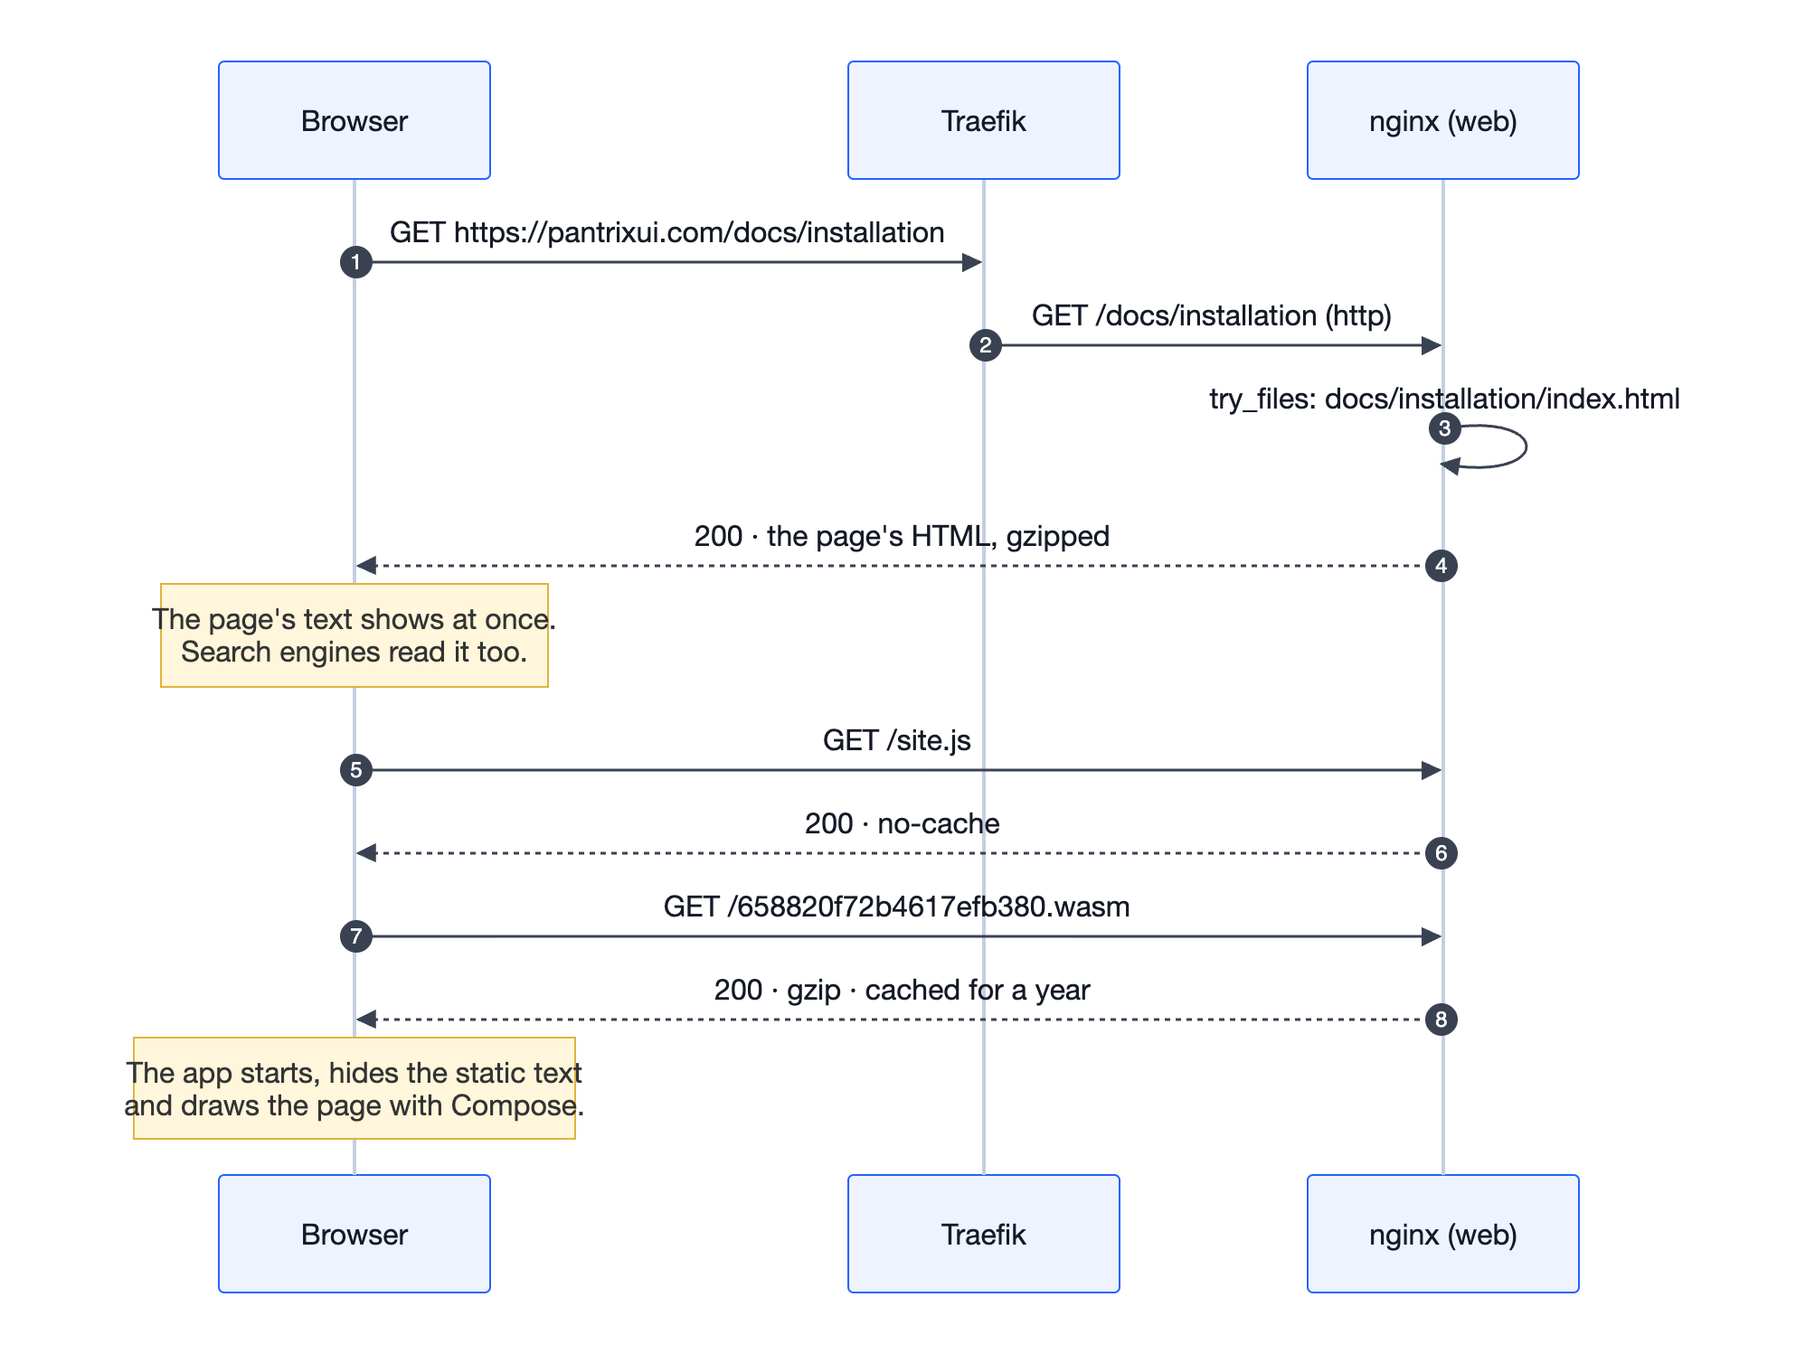
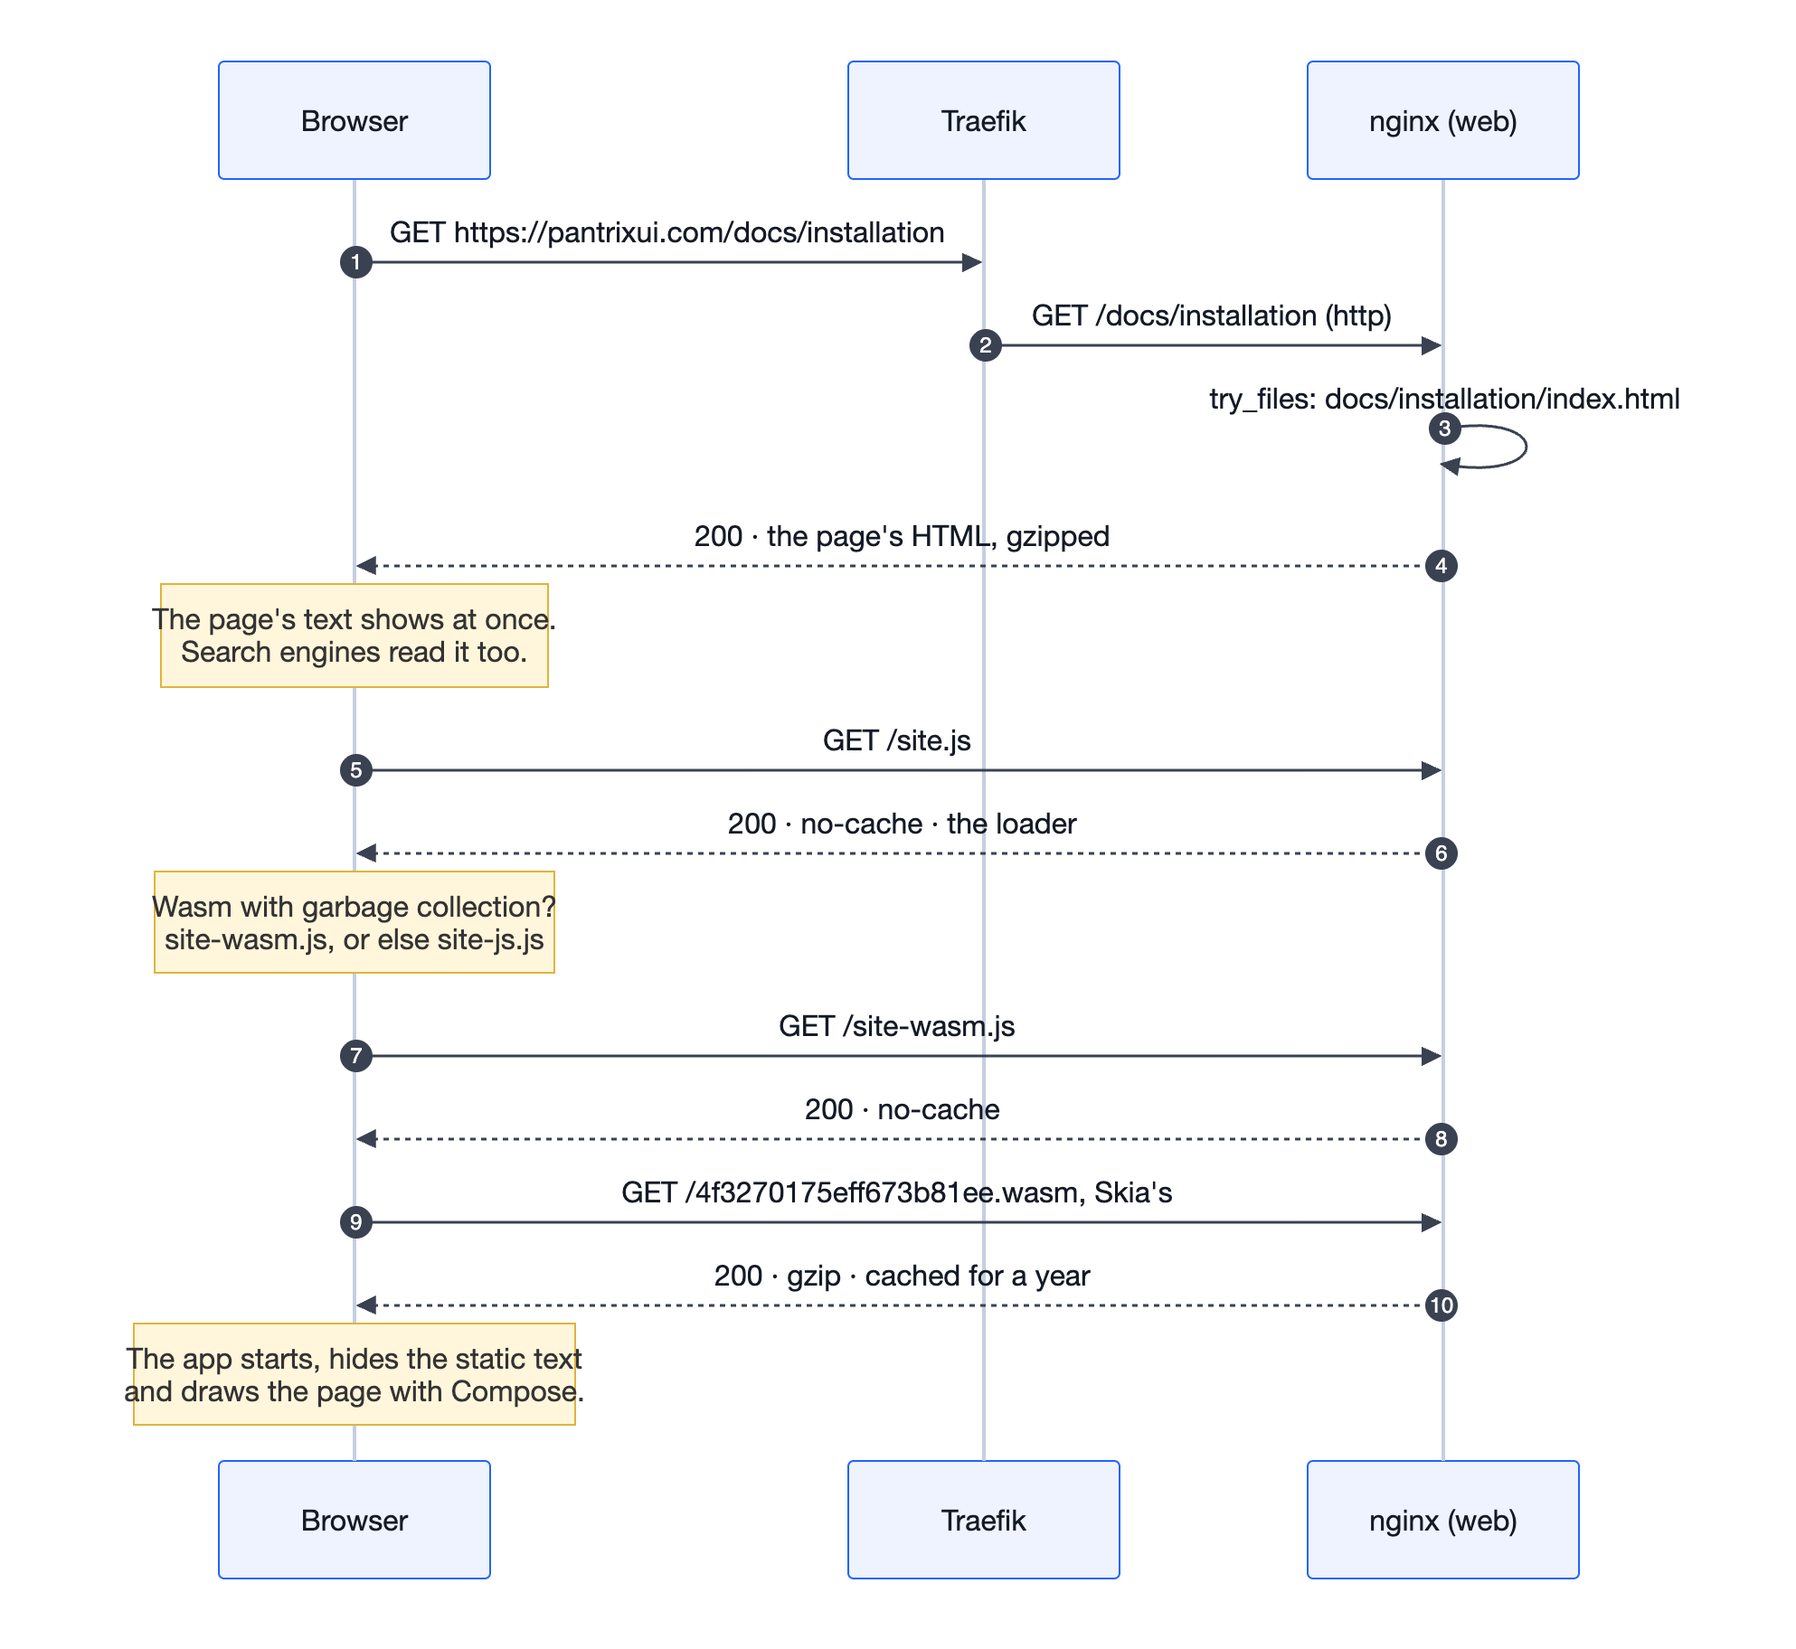
[FIX][Give a browser that cannot run the site's Wasm build the app built as JavaScript, Start the build from a loader that falls back on a Wasm failure and Check both builds in check.sh]

diff --git a/build-logic/src/main/kotlin/com/pantrixui/site/buildlogic/WebApplicationConventionPlugin.kt b/build-logic/src/main/kotlin/com/pantrixui/site/buildlogic/WebApplicationConventionPlugin.kt
@@ -26,11 +26,14 @@ import org.jetbrains.kotlin.gradle.ExperimentalWasmDsl
 import org.jetbrains.kotlin.gradle.dsl.KotlinMultiplatformExtension
 
 /**
- * The web app: the site's app in the browser, as Wasm. A browser without Wasm is given each page's static HTML, which
- * the build writes beside the app: after each of the two distributions, `:tools:prerender` writes every page's
- * `index.html` in the folder of its address, with the `404.html`, `sitemap.xml` and `robots.txt`. `:tools:render`
- * draws the app on the JVM for what the static pages cannot read from the content: the landing pages' words, and each
- * page's share image. Those two run only when what they read has changed.
+ * The web app: the site's app in the browser, as Wasm, and as JavaScript for a browser that cannot run the Wasm build.
+ * The JavaScript build is copied beside the Wasm one, and the page's own `site.js` chooses: the Wasm build where the
+ * browser has Wasm's garbage collection, the JavaScript one where it has not, or where the Wasm build fails before it
+ * has drawn. A browser that runs neither, or no script, is given each page's static HTML, which the build writes beside
+ * the app: after each of the two distributions, `:tools:prerender` writes every page's `index.html` in the folder of
+ * its address, with the `404.html`, `sitemap.xml` and `robots.txt`. `:tools:render` draws the app on the JVM for what
+ * the static pages cannot read from the content: the landing pages' words, and each page's share image. Those two run
+ * only when what they read has changed.
  */
 class WebApplicationConventionPlugin : Plugin<Project> {
     override fun apply(target: Project): Unit = with(target) {
@@ -40,11 +43,19 @@ class WebApplicationConventionPlugin : Plugin<Project> {
         pluginManager.apply(QualityConventionPlugin::class)
 
         extensions.configure<KotlinMultiplatformExtension> {
+            js {
+                browser {
+                    commonWebpackConfig {
+                        outputFileName = JS_BUNDLE
+                    }
+                }
+                binaries.executable()
+            }
             @OptIn(ExperimentalWasmDsl::class)
             wasmJs {
                 browser {
                     commonWebpackConfig {
-                        outputFileName = WEB_BUNDLE
+                        outputFileName = WASM_BUNDLE
                     }
                 }
                 binaries.executable()
@@ -89,7 +100,7 @@ class WebApplicationConventionPlugin : Plugin<Project> {
             manifest.set(shareManifest)
             outputDirectory.set(built.map { it.dir("share") })
         }
-        DISTRIBUTIONS.forEach { (distribution, folder) ->
+        DISTRIBUTIONS.forEach { (distribution, folder, jsDistribution) ->
             val name = "prerender" + distribution.replaceFirstChar { it.uppercase() }
             val prerender = tasks.register<PrerenderSite>(name) {
                 group = "site"
@@ -98,7 +109,7 @@ class WebApplicationConventionPlugin : Plugin<Project> {
                 mainClass.set(PRERENDER_MAIN)
                 dependsOn(":core:content:generateSiteContent")
                 contentDirectory.set(rootProject.layout.projectDirectory.dir(CONTENT))
-                template.set(layout.projectDirectory.file("src/wasmJsMain/resources/index.html"))
+                template.set(layout.projectDirectory.file("src/webMain/resources/index.html"))
                 site.set(siteUrl)
                 landingWords.set(landing.flatMap { it.wordsFile })
                 libraryDocuments.from(documents)
@@ -109,15 +120,35 @@ class WebApplicationConventionPlugin : Plugin<Project> {
                 from(share)
                 into(layout.buildDirectory.dir("dist/wasmJs/$folder"))
             }
+            // The JavaScript build beside the Wasm one: its script and the Wasm of Skiko it draws with. Its page, styles
+            // and resources are the Wasm build's own already. The JavaScript build is one the Wasm distribution depends
+            // on, not one this copy does: Gradle cannot run a finalizer that waits on tasks with finalizers of their own.
+            val copyJs = tasks.register<Copy>("copyJsApp${name.removePrefix("prerender")}") {
+                mustRunAfter(jsDistribution)
+                from(layout.buildDirectory.dir("dist/js/$folder")) {
+                    // Skiko's Wasm by the name of its hash, the one the script asks for; `skiko.wasm` it asks for only
+                    // where a page names its own place for it.
+                    include(JS_BUNDLE, "*.wasm")
+                    exclude("skiko.wasm")
+                }
+                into(layout.buildDirectory.dir("dist/wasmJs/$folder"))
+            }
             share.configure { mustRunAfter(prerender) }
             prerender.configure { finalizedBy(copyShare) }
-            tasks.matching { it.name == distribution }.configureEach { finalizedBy(prerender) }
+            copyJs.configure { mustRunAfter(prerender, copyShare) }
+            tasks.matching { it.name == distribution }.configureEach {
+                dependsOn(jsDistribution)
+                finalizedBy(prerender, copyJs)
+            }
         }
     }
 
     private companion object {
-        /** The script `index.html` loads. */
-        const val WEB_BUNDLE = "site.js"
+        /** The Wasm build's script, which `site.js`, the script `index.html` loads, starts where the browser runs it. */
+        const val WASM_BUNDLE = "site-wasm.js"
+
+        /** The JavaScript build's script, which `site.js` starts where the browser cannot run the Wasm build. */
+        const val JS_BUNDLE = "site-js.js"
 
         const val PRERENDER_MAIN = "com.pantrixui.site.tools.prerender.MainKt"
         const val LANDING_MAIN = "com.pantrixui.site.tools.render.LandingMainKt"
@@ -126,10 +157,17 @@ class WebApplicationConventionPlugin : Plugin<Project> {
         /** What `:core:content`'s content tool writes: the pages, the components and the changelog. */
         const val CONTENT = "core/content/build/generated/siteContent"
 
-        /** The web app's two distributions, each with the folder it is written to. */
+        /**
+         * The web app's two distributions: the Wasm build's, the folder each is written to, and the JavaScript build's
+         * that is copied into it.
+         */
         val DISTRIBUTIONS = listOf(
-            "wasmJsBrowserDistribution" to "productionExecutable",
-            "wasmJsBrowserDevelopmentExecutableDistribution" to "developmentExecutable"
+            Triple("wasmJsBrowserDistribution", "productionExecutable", "jsBrowserDistribution"),
+            Triple(
+                "wasmJsBrowserDevelopmentExecutableDistribution",
+                "developmentExecutable",
+                "jsBrowserDevelopmentExecutableDistribution"
+            )
         )
     }
 }

diff --git a/app/webApp/src/webMain/resources/site.js b/app/webApp/src/webMain/resources/site.js
@@ -1,0 +1,97 @@
+// Starts the site's app, in the build the browser can run.
+//
+// Where the browser runs Wasm with its garbage collection, the Wasm build (site-wasm.js). Where it does not, as
+// Chrome before 119 and Safari before 18.2, the JavaScript build (site-js.js), which needs only plain Wasm, for Skiko.
+// The Wasm build can fail where the test below passes: a phone's browser can run out of memory for its code, or refuse
+// a module. A failure of Wasm before the app has drawn its first frame starts the JavaScript build instead. Where that
+// fails too, or the browser has no Wasm at all, the page's static words are shown: index.html's `app` mark is taken
+// away, and its styles show the words the build wrote for the page.
+(function () {
+    "use strict";
+
+    // The module Compose's own loader tests a browser with (WebCompatibilityTask): a struct type and a `try`, so a
+    // browser that takes it has garbage collection and exception handling, both of which the Wasm build needs.
+    var FEATURES = new Uint8Array([
+        0, 97, 115, 109, 1, 0, 0, 0, 1, 8, 2, 95, 1, 120, 0, 96, 0, 0, 3, 3, 2, 1, 1, 10, 14, 2, 6, 0, 6, 64, 25, 11,
+        11, 5, 0, 208, 112, 26, 11, 0, 45, 4, 110, 97, 109, 101, 1, 15, 2, 0, 5, 102, 117, 110, 99, 48, 1, 5, 102, 117,
+        110, 99, 49, 4, 8, 1, 0, 5, 116, 121, 112, 101, 48, 10, 11, 1, 0, 1, 0, 6, 102, 105, 101, 108, 100, 48
+    ]);
+    var WASM = "site-wasm.js";
+    var JS = "site-js.js";
+
+    // The build that is starting: "wasm" or "js", and null once there is none left to try.
+    var starting = null;
+
+    // The app removes the loading mark once it has drawn its first frame (main.kt): a failure after that is the app's.
+    function drawn() {
+        return !document.getElementById("loading");
+    }
+
+    function load(src, onFailure) {
+        var script = document.createElement("script");
+        script.type = "application/javascript";
+        script.src = src;
+        script.onerror = onFailure;
+        document.body.appendChild(script);
+    }
+
+    function showStaticWords() {
+        starting = null;
+        document.documentElement.classList.remove("app");
+    }
+
+    function startJavaScript() {
+        starting = "js";
+        // What the Wasm build may have set in the app's box before it failed.
+        var box = document.getElementById("app");
+        while (box && box.firstChild) box.removeChild(box.firstChild);
+        load(JS, showStaticWords);
+    }
+
+    // A failure of the browser's Wasm, as opposed to one of the app: a module it cannot compile or link, a trap, or no
+    // memory left for it.
+    function wasmFailed(error) {
+        var wasm = typeof WebAssembly === "object";
+        return error instanceof RangeError || wasm && (error instanceof WebAssembly.CompileError ||
+            error instanceof WebAssembly.LinkError || error instanceof WebAssembly.RuntimeError);
+    }
+
+    // Whether the error's stack runs through the script: what the Wasm build still throws as it stops, after the
+    // JavaScript build has started, is the Wasm build's failure and not the JavaScript one's.
+    function thrownBy(error, script) {
+        return String(error && error.stack || "").indexOf(script) >= 0;
+    }
+
+    function failed(error) {
+        if (starting === null || drawn() || !wasmFailed(error)) return;
+        if (starting === "wasm") {
+            console.warn("Pantrix UI: the Wasm build failed before it was drawn, the JavaScript build starts.", error);
+            startJavaScript();
+        } else if (!thrownBy(error, WASM)) {
+            console.warn("Pantrix UI: the JavaScript build failed too, the page's words are shown.", error);
+            showStaticWords();
+        }
+    }
+
+    window.addEventListener("error", function (event) {
+        failed(event.error);
+    });
+    window.addEventListener("unhandledrejection", function (event) {
+        failed(event.reason);
+    });
+
+    var collected = false;
+    try {
+        collected = typeof WebAssembly === "object" && WebAssembly.validate(FEATURES);
+    } catch (unsupported) {
+        collected = false;
+    }
+    if (collected) {
+        starting = "wasm";
+        load(WASM, startJavaScript);
+    } else if (typeof WebAssembly === "object") {
+        startJavaScript();
+    } else {
+        showStaticWords();
+    }
+})();

diff --git a/app/webApp/src/webMain/resources/index.html b/app/webApp/src/webMain/resources/index.html
@@ -14,18 +14,11 @@
     <link rel="icon" href="favicon.ico" sizes="32x32">
     <link rel="icon" href="favicon.svg" type="image/svg+xml">
     <link rel="apple-touch-icon" href="apple-touch-icon.png">
-    <!-- A browser that can run the app, one with Wasm's garbage collection, is marked `app`: it hides the page's static
-         words, the #static box the build writes for each page, and draws the app. One that cannot keeps the words. -->
+    <!-- A browser that can run the app, one with Wasm, is marked `app`: it hides the page's static words, the #static
+         box the build writes for each page, and draws the app, in its Wasm build or its JavaScript one (site.js). One
+         that cannot, or runs no script, keeps the words. -->
     <script>
-        (function () {
-            var app = false;
-            try {
-                app = WebAssembly.validate(new Uint8Array([0, 97, 115, 109, 1, 0, 0, 0, 1, 3, 1, 95, 0]));
-            } catch (e) {
-                app = false;
-            }
-            if (app) document.documentElement.className = "app";
-        })();
+        if (typeof WebAssembly === "object") document.documentElement.className = "app";
     </script>
     <!-- The site's typefaces are fetched while its code is, so they are there when the app asks for them. The
          addresses are the ones Compose's resource reader asks for; without `crossorigin` the browser does not count
@@ -56,6 +49,7 @@
     </div>
     <!-- The box the app is set in. -->
     <div id="app"></div>
+    <!-- Starts the app in the build the browser can run: Wasm, or JavaScript where Wasm cannot run it. -->
     <script type="application/javascript" src="site.js"></script>
 </body>
 </html>

diff --git a/core/content/src/webMain/kotlin/com/pantrixui/site/core/content/FetchText.web.kt b/core/content/src/webMain/kotlin/com/pantrixui/site/core/content/FetchText.web.kt
@@ -1,0 +1,36 @@
+// The browser's own fetch, its promises awaited as Kotlin's.
+@file:OptIn(ExperimentalWasmJsInterop::class)
+
+package com.pantrixui.site.core.content
+
+import kotlinx.browser.window
+import kotlinx.coroutines.CancellationException
+import kotlinx.coroutines.await
+import org.w3c.fetch.RequestInit
+import org.w3c.fetch.Response
+import kotlin.js.ExperimentalWasmJsInterop
+import kotlin.js.JsException
+import kotlin.js.JsString
+
+/**
+ * The address's text by the browser's fetch: another site's must allow the page's address, as GitHub's API does.
+ *
+ * A rejected fetch is a [JsException], which in the JavaScript build is any [Throwable]: a cancelled wait goes on up
+ * before it, so the coroutine that asked stops as it should.
+ */
+internal actual suspend fun fetchText(url: String): String? = try {
+    // The request's options given, as JavaScript's declaration of fetch has no default for them.
+    val response = window.fetch(url, RequestInit()).await<Response>()
+    if (response.ok) {
+        // A JavaScript string in the Wasm build, which is Kotlin's own in the JavaScript build.
+        @Suppress("REDUNDANT_CALL_OF_CONVERSION_METHOD")
+        response.text().await<JsString>().toString()
+    } else {
+        null
+    }
+} catch (cancelled: CancellationException) {
+    throw cancelled
+} catch (@Suppress("SwallowedException") failure: JsException) {
+    // No network, or an address that does not allow the page's: the browser rejects the fetch.
+    null
+}

diff --git a/build-logic/src/main/kotlin/com/pantrixui/site/buildlogic/KmpLibraryConventionPlugin.kt b/build-logic/src/main/kotlin/com/pantrixui/site/buildlogic/KmpLibraryConventionPlugin.kt
@@ -14,8 +14,8 @@ import org.jetbrains.kotlin.gradle.tasks.KotlinJvmCompile
 
 /**
  * A Kotlin Multiplatform module of the site, on every target the site runs on: Android, iOS on a device and in the
- * simulator, the desktop (JVM) and the web. The web is Wasm alone: a browser too old for it is given the page's static
- * HTML instead.
+ * simulator, the desktop (JVM) and the web. The web is Wasm, and JavaScript for a browser that cannot run the Wasm
+ * build (`WebApplicationConventionPlugin`); what the two share is in `webMain`.
  */
 class KmpLibraryConventionPlugin : Plugin<Project> {
     override fun apply(target: Project): Unit = with(target) {
@@ -37,6 +37,13 @@ class KmpLibraryConventionPlugin : Plugin<Project> {
             iosArm64()
             iosSimulatorArm64()
             jvm()
+            // The build a browser without Wasm's garbage collection runs. The common tests run in the browser on Wasm,
+            // and not a second time here: the JavaScript build is the same code, compiled for an older browser.
+            js {
+                browser {
+                    testTask { enabled = false }
+                }
+            }
             @OptIn(ExperimentalWasmDsl::class)
             wasmJs {
                 browser()

diff --git a/app/webApp/src/wasmJsMain/kotlin/com/pantrixui/site/WasmMemory.wasmJs.kt b/app/webApp/src/wasmJsMain/kotlin/com/pantrixui/site/WasmMemory.wasmJs.kt
@@ -15,7 +15,7 @@ import kotlin.wasm.unsafe.wasmMemory
  * `wasmExports` is deprecated". The supported way is `kotlin.wasm.unsafe.wasmMemory`. Compose fixed it on its side
  * (JetBrains/compose-multiplatform #5724); once the site is on a Compose with that fix, this goes, with its call.
  */
-internal fun shareWasmMemoryWithResources() = shareMemory(wasmMemory)
+internal actual fun shareWasmMemoryWithResources() = shareMemory(wasmMemory)
 
 /**
  * The compiler writes the bodies of `js(...)` into one module and hands them the memory through a variable called

diff --git a/app/webApp/src/webMain/kotlin/com/pantrixui/site/WasmMemory.kt b/app/webApp/src/webMain/kotlin/com/pantrixui/site/WasmMemory.kt
@@ -1,0 +1,7 @@
+package com.pantrixui.site
+
+/**
+ * Gives Compose's resource reader the Wasm memory by the way Kotlin supports, before the first resource is read, where
+ * the site runs as Wasm. The JavaScript build has no Wasm memory of its own to give.
+ */
+internal expect fun shareWasmMemoryWithResources()

diff --git a/app/webApp/src/jsMain/kotlin/com/pantrixui/site/WasmMemory.js.kt b/app/webApp/src/jsMain/kotlin/com/pantrixui/site/WasmMemory.js.kt
@@ -1,0 +1,4 @@
+package com.pantrixui.site
+
+/** The JavaScript build reads its resources with no Wasm memory of its own: there is nothing to give. */
+internal actual fun shareWasmMemoryWithResources() = Unit
